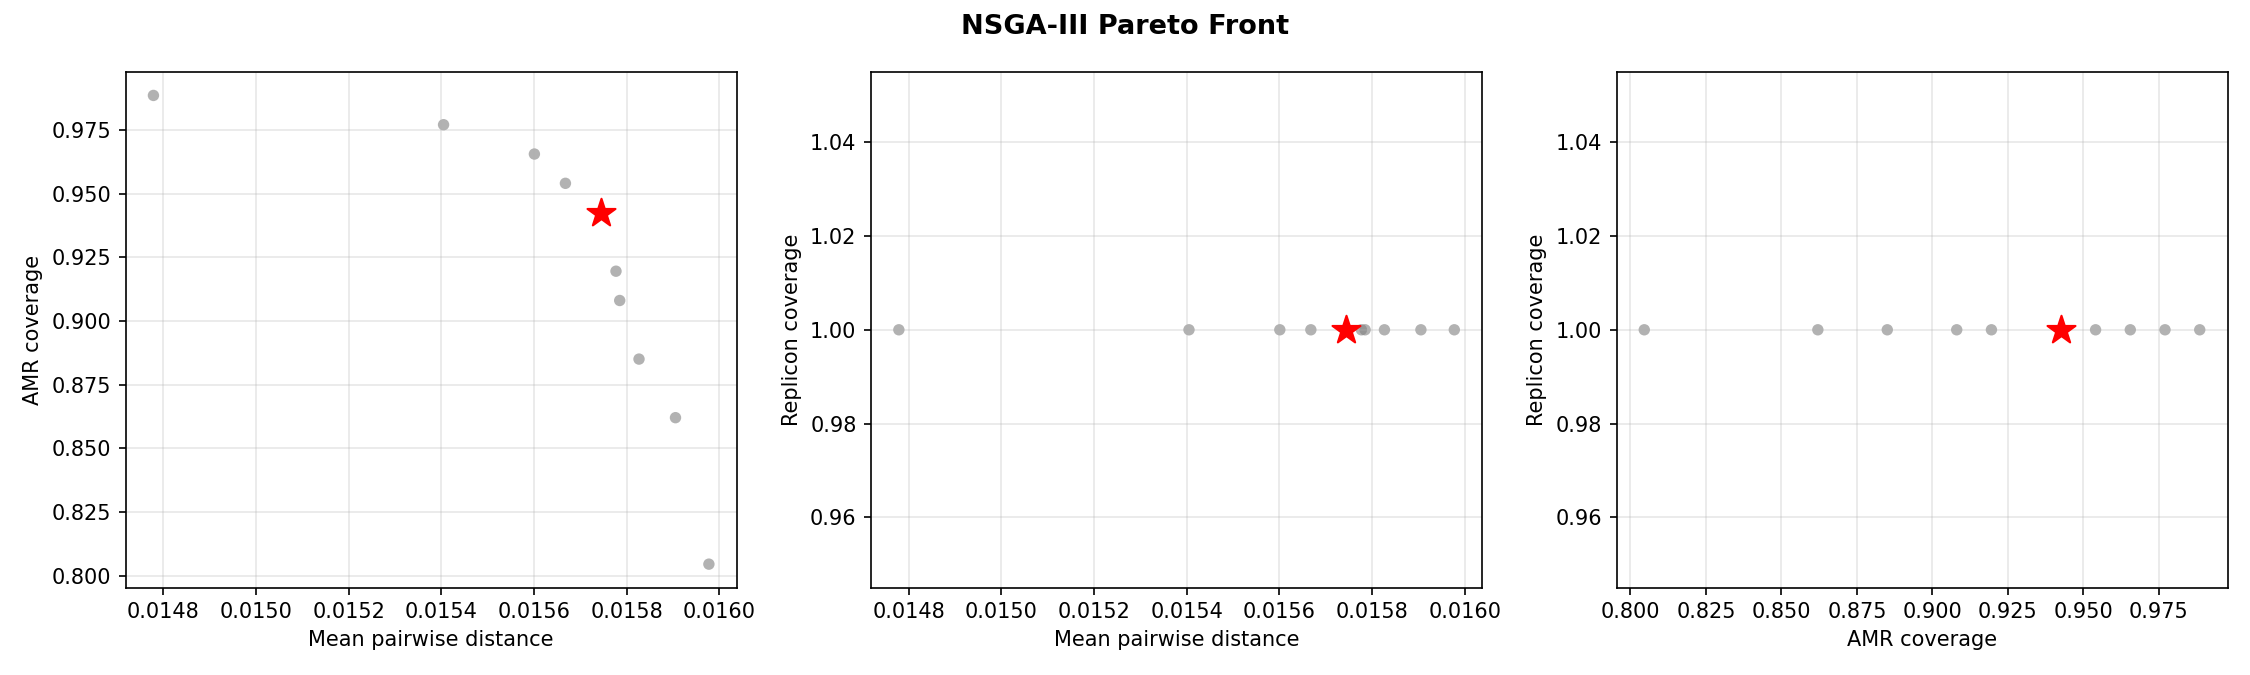
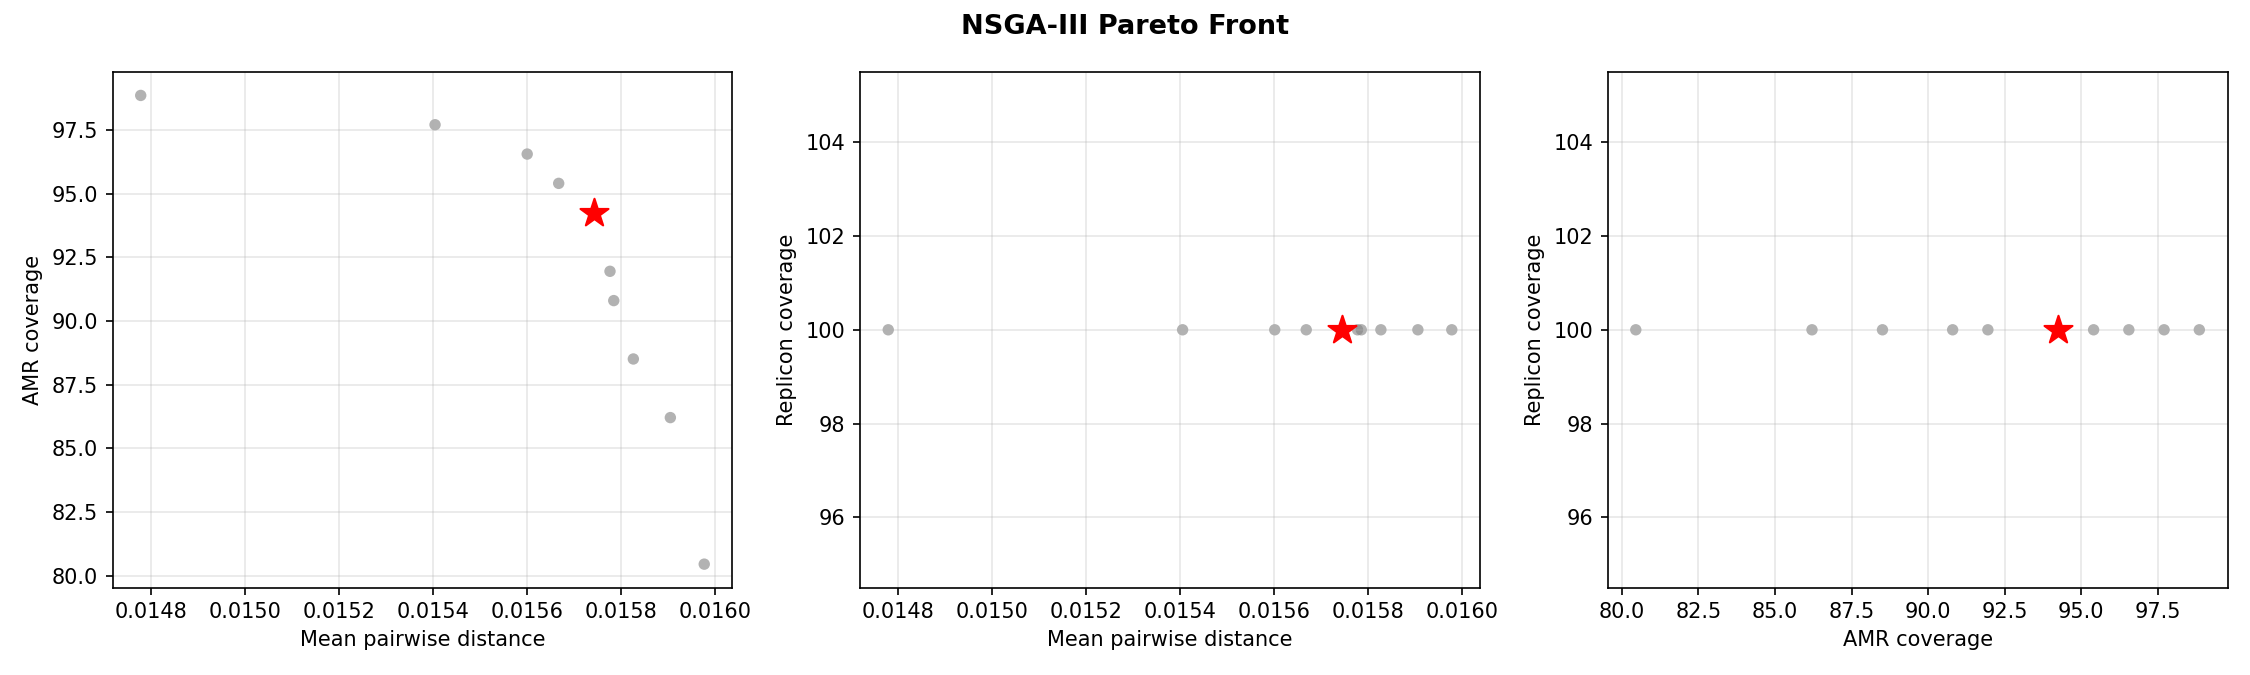
Fix nsga2 pct columns to 0-100 scale; regenerate EuSCAPE example
pct_amr_covered and pct_rep_covered were stored as fractions (0-1)
instead of percentages (0-100), inconsistent with evaluate.py output.

diff --git a/src/repseq/nsga2.py b/src/repseq/nsga2.py
@@ -237,8 +237,8 @@ def run_nsga2(
         rows.append({
             "solution_id": si,
             "mean_pairwise_dist": front_F[si, 0],
-            "pct_amr_covered": front_F[si, 1],
-            "pct_rep_covered": front_F[si, 2],
+            "pct_amr_covered": round(front_F[si, 1] * 100, 2),
+            "pct_rep_covered": round(front_F[si, 2] * 100, 2),
             "is_recommended": si == rec_idx,
             "selected_samples": ";".join(sorted(sample_names)),
         })
@@ -267,8 +267,8 @@ def run_nsga2(
     print_message(
         f"Recommended solution (closest to ideal): "
         f"phylo dist={rec_row['mean_pairwise_dist']:.4f}, "
-        f"AMR={rec_row['pct_amr_covered']:.1%}, "
-        f"replicons={rec_row['pct_rep_covered']:.1%}",
+        f"AMR={rec_row['pct_amr_covered']:.1f}%, "
+        f"replicons={rec_row['pct_rep_covered']:.1f}%",
         "success",
     )
     print_message(f"Selected {len(rec_samples)} samples: {rec_samples}", "info")
